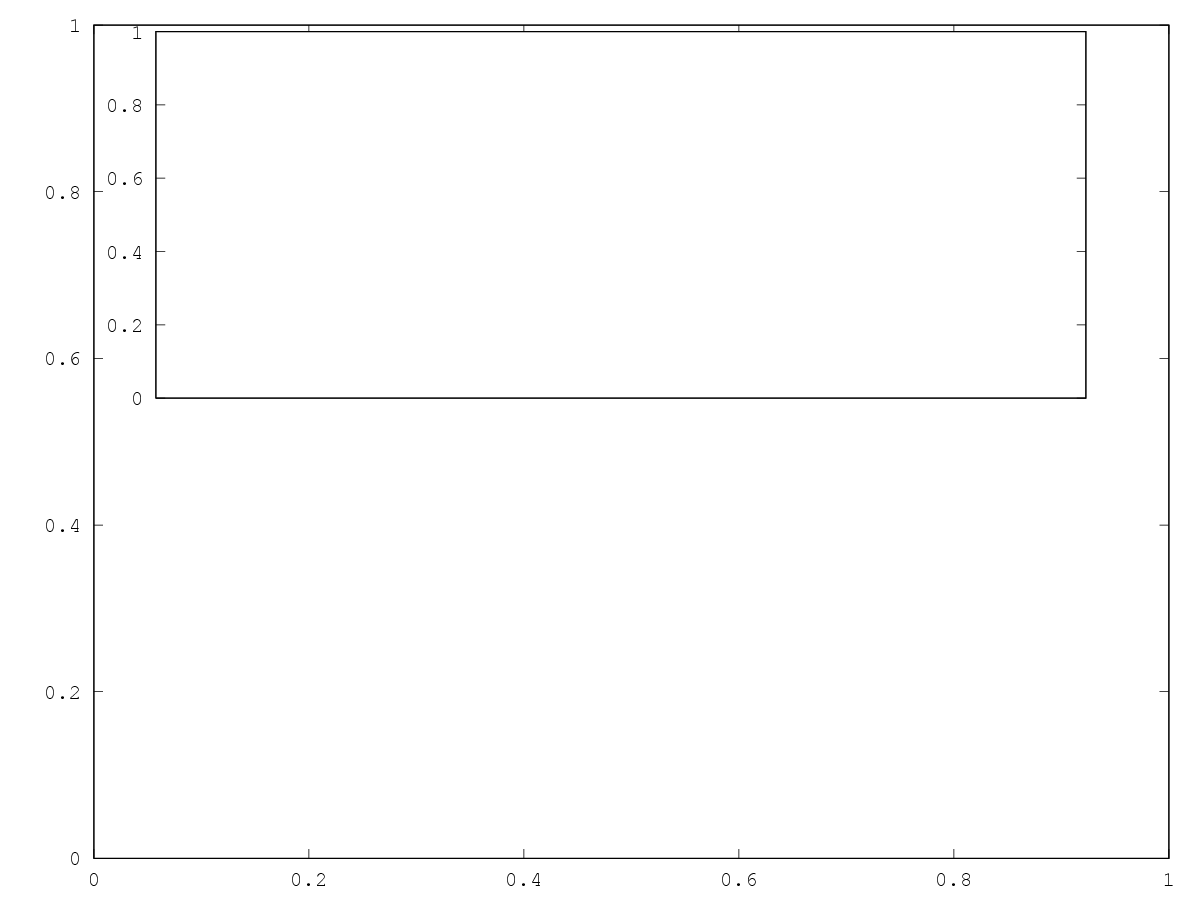
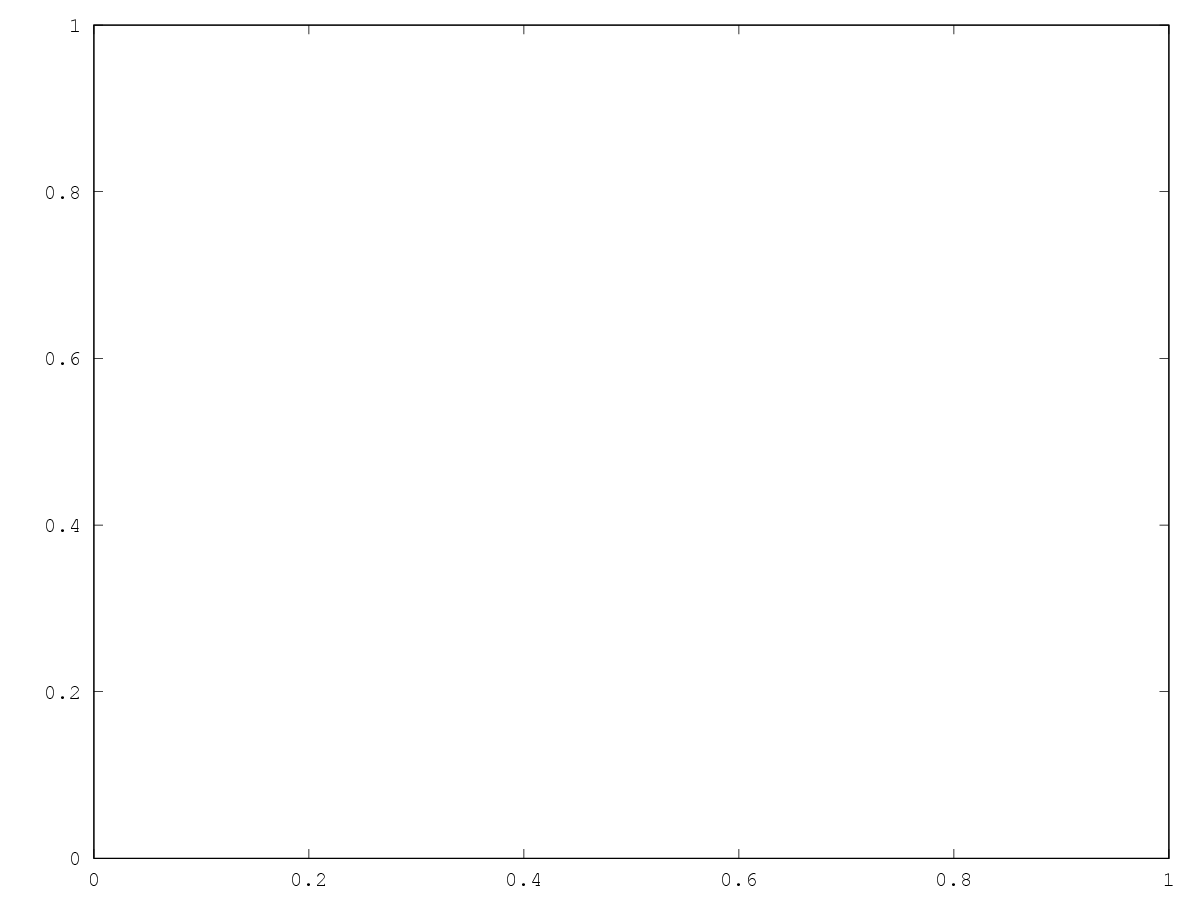
basic_break.m

Changed region(s): [[0.1233, 0.0311, 0.1542, 0.0622]]

diff --git a/basic_break.m b/basic_break.m
@@ -328,10 +328,10 @@ p0 = get (gca, 'position');
 %xlabel('COPY METHOD', 'FontSize', fontsize);
 %ylabel('DOWNTIME (SEC)', 'FontSize', fontsize);
 
-a2 = axes ('position', [p0(1) p0(4)/2+.15 p0(3) p0(4)/2]);
+%a2 = axes ('position', [p0(1) p0(4)/2+.15 p0(3) p0(4)/2]);
 %bar(xintervals, A(:,2))
 %set(a2, 'ylim', ylim2, 'FontSize', fontsize);
-set(a2, 'xtick', []);
+%set(a2, 'xtick', []);
 %ylabel('DOWNTIME (SEC)', 'FontSize', fontsize);
 
 saveas (1, strcat(output, ".png"));
